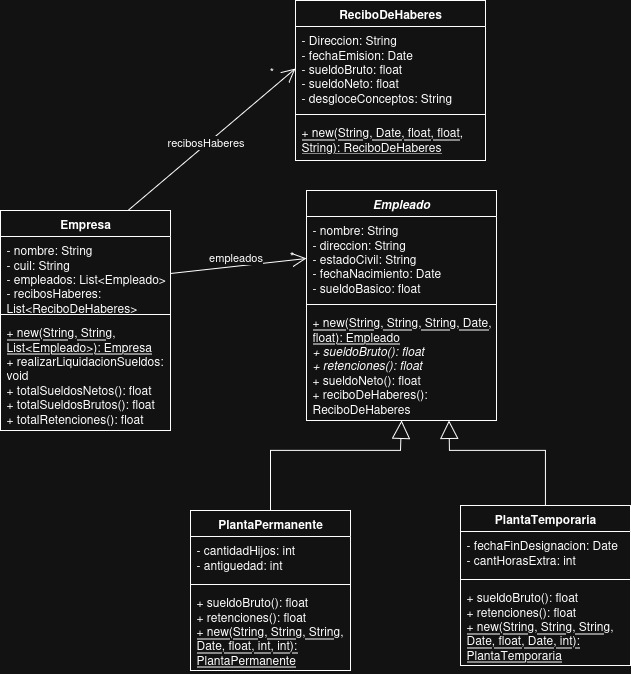
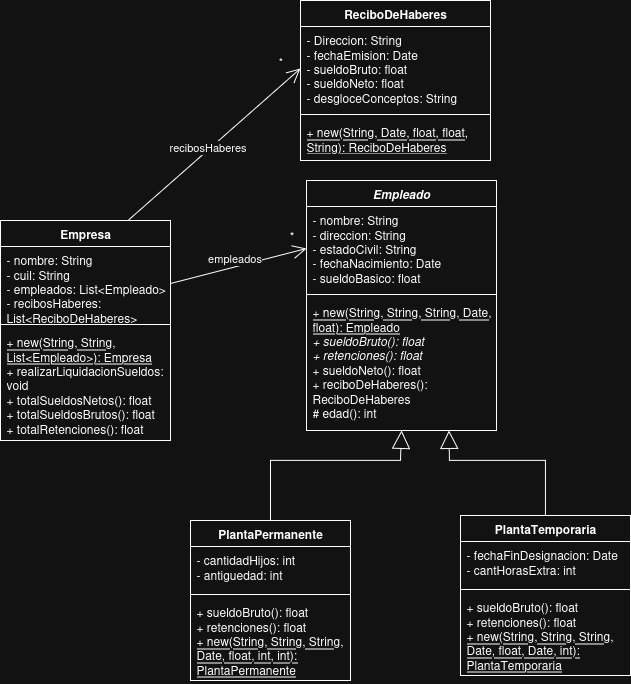
Nueva actualización de UMLs y desarrollo de implementación TP 2

diff --git a/tp2-UML/implementacion-en-Java/src/empleado/Empleado.java b/tp2-UML/implementacion-en-Java/src/empleado/Empleado.java
@@ -1,5 +1,8 @@
 package empleado;
 
+import java.time.LocalDate;
+import java.time.Period;
+import java.time.ZoneId;
 import java.util.Date;
 import empresa.ReciboDeHaberes;
 
@@ -16,6 +19,15 @@ abstract public class Empleado {
 		this.estadoCivil = estadoCivil;
 		this.fechaNacimiento = fechaNacimiento;
 		this.sueldoBasico = sueldoBasico;
+	}
+	
+	protected int edad() { //según vi, hacerlo con Date puede ser propenso a errores, por lo que internamente se usa LocalDate
+		LocalDate localFechaActual = new Date().toInstant().atZone(ZoneId.systemDefault()).toLocalDate();
+		LocalDate localFechaNacimiento = fechaNacimiento.toInstant().atZone(ZoneId.systemDefault()).toLocalDate();
+
+		int diferenciaAnios = Period.between(localFechaNacimiento, localFechaActual).getYears();
+		
+		return diferenciaAnios;
 	}
 	
 	abstract public float sueldoBruto();
